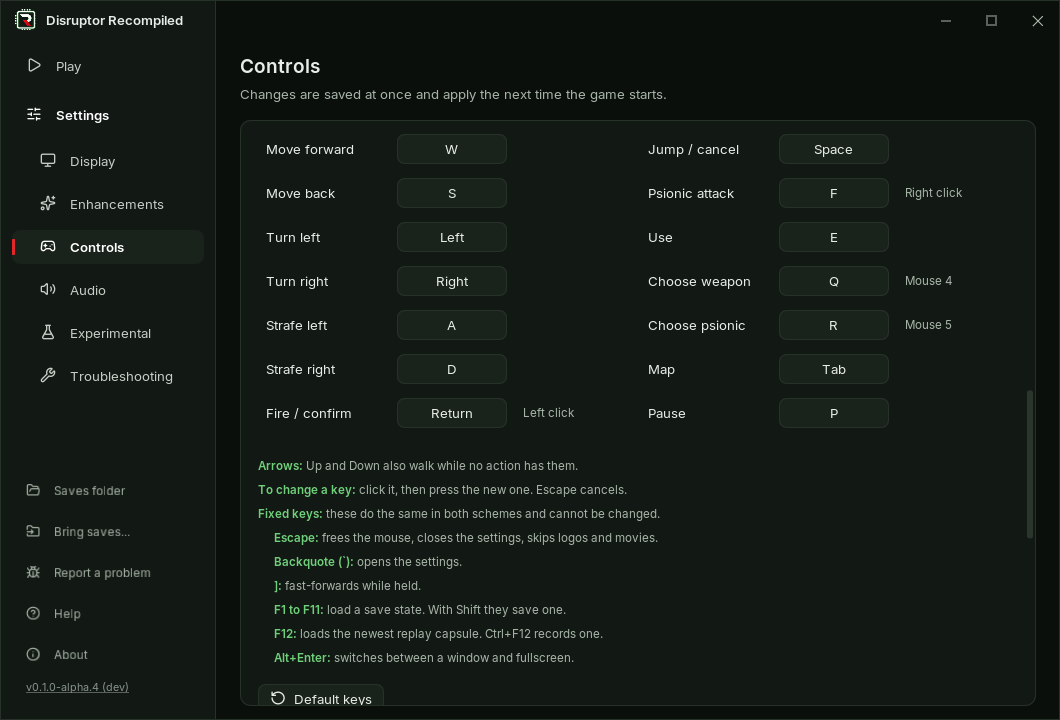
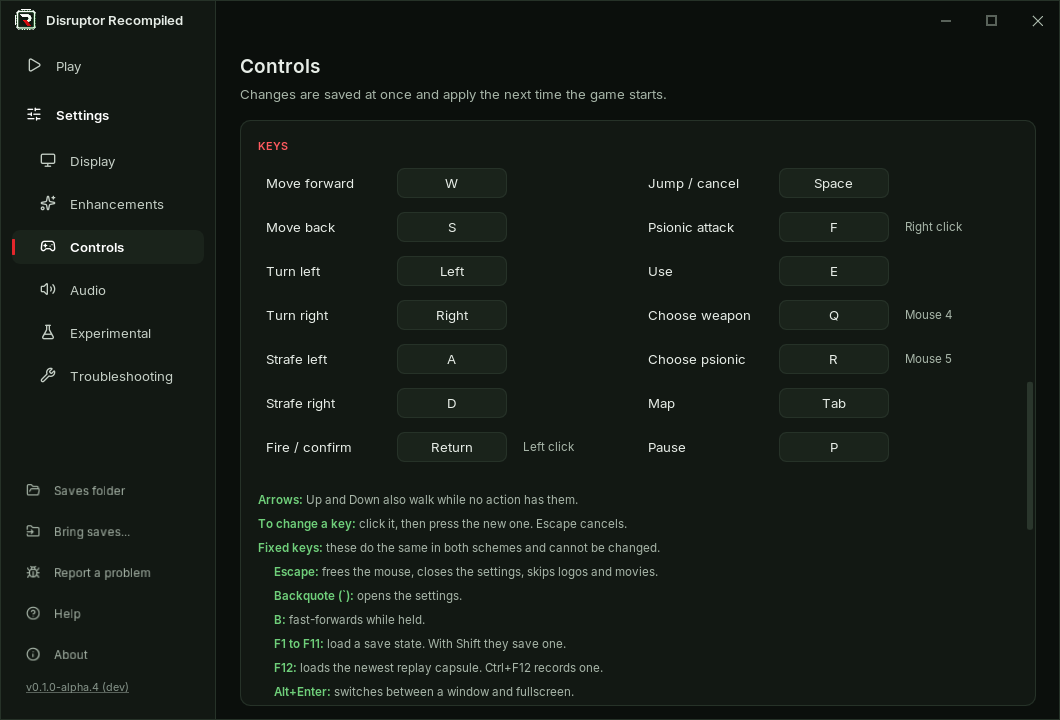
feat: fast-forward with B instead of ], except while the save-name rows take the key

diff --git a/tests/contracts/test_fast_forward_key_contract.py b/tests/contracts/test_fast_forward_key_contract.py
@@ -1,0 +1,94 @@
+#!/usr/bin/env python3
+"""Source contract for the fast-forward key: B, asked of the game by the framework, and never while the name takes it."""
+
+from pathlib import Path
+
+ROOT = Path(__file__).resolve().parents[2]
+
+
+def read(path: str) -> str:
+    return (ROOT / path).read_text(encoding="utf-8-sig").replace("\r\n", "\n")
+
+
+def faults(sources: dict[str, str]) -> list[str]:
+    """What is wrong with the sources, empty when the key works as the contract says."""
+    found = []
+    main, host, entry = sources["main"], sources["host"], sources["entry"]
+    if not (
+        "#ifdef PSX_HAS_GAME_HOST\n        const int turbo_key = psx_game_fast_forward_key();\n#else\n"
+        "        const int turbo_key = SDL_SCANCODE_RIGHTBRACKET;\n#endif\n"
+        in main
+        and "            turbo_key >= 0 && turbo_key < count && keys[turbo_key]) {" in main
+        and "const Uint8* keys = SDL_GetKeyboardState(&count);" in main
+    ):
+        found.append("the framework must ask the game for the key and check it against the keyboard's size")
+    if main.count("SDL_SCANCODE_RIGHTBRACKET") != 1:
+        found.append("] must stay only as the key of a build without a game host")
+    if "int psx_game_fast_forward_key(void);" not in sources["header"]:
+        found.append("the game host header must declare the question")
+    if (
+        "int psx_game_fast_forward_key(void) {\n"
+        "    if (disruptor_name_entry_taking_text() || disruptor_name_entry_withholds(SDL_SCANCODE_B)) return -1;\n"
+        "    return SDL_SCANCODE_B;\n}\n"
+    ) not in host:
+        found.append("Disruptor must answer B, and none while the name rows take letters or hold B")
+    if (
+        'extern "C" int disruptor_name_entry_taking_text(void) { return taking_text() ? 1 : 0; }' not in entry
+        or "    return scancode >= 0 && key < g_withheld.size() && g_withheld.test(key) ? 1 : 0;" not in entry
+        or "    g_withheld.set(static_cast<std::size_t>(scancode));  /* the rows may close before the pad is next read */"
+        not in entry
+        or "        g_held.reset(static_cast<std::size_t>(scancode));\n        g_withheld.reset(static_cast<std::size_t>(scancode));\n"
+        not in entry
+    ):
+        found.append("the name entry must say when it takes letters and which keys it still holds")
+    if not (
+        '{"B", "fast-forwards while held"},' in sources["keys"]
+        and 'folded == "b") return true;' in sources["keys"]
+        and '"]"' not in sources["keys"]
+    ):
+        found.append("the launcher must reserve B and list it, and leave ] to the player")
+    if "- **B** fast-forwards while held, except on the save-name screen." not in sources["guide"]:
+        found.append("the player's guide must name B")
+    return found
+
+
+sources = {
+    "main": read("psxrecomp/runtime/src/main.cpp"),
+    "header": read("psxrecomp/runtime/include/game_host.h"),
+    "host": read("src/game/host.cpp"),
+    "entry": read("src/game/input/name_entry.cpp"),
+    "keys": read("src/launcher/key_bindings.cpp"),
+    "guide": read("docs/PLAYING.md"),
+}
+said = faults(sources)
+if said:
+    raise AssertionError("; ".join(said))
+
+seeded = {
+    "a key the framework reads itself": ("main", "keys[turbo_key]) {", "keys[SDL_SCANCODE_B]) {"),
+    "no bound on the scancode": ("main", "turbo_key >= 0 && turbo_key < count && ", "turbo_key >= 0 && "),
+    "another key": ("host", "    return SDL_SCANCODE_B;\n", "    return SDL_SCANCODE_V;\n"),
+    "B while the rows take letters": ("host", "disruptor_name_entry_taking_text() || ", ""),
+    "B held over the rows' end": ("host", " || disruptor_name_entry_withholds(SDL_SCANCODE_B)", ""),
+    "a held key past the bitset": ("entry", "key < g_withheld.size() && ", ""),
+    "a typed key not held at once": (
+        "entry",
+        "    g_withheld.set(static_cast<std::size_t>(scancode));  /* the rows may close before the pad is next read */\n",
+        "",
+    ),
+    "a key let go still held": (
+        "entry",
+        "        g_withheld.reset(static_cast<std::size_t>(scancode));\n        return 0;\n",
+        "        return 0;\n",
+    ),
+    "B free to bind": ("keys", 'folded == "b") return true;', 'folded == "]") return true;'),
+    "the old key in the guide": ("guide", "- **B** fast-forwards", "- **]** fast-forwards"),
+}
+for name, (where, old, new) in seeded.items():
+    changed = dict(sources)
+    if changed[where].count(old) != 1:
+        raise AssertionError(f"the seed '{name}' no longer finds its text")
+    changed[where] = changed[where].replace(old, new)
+    if not faults(changed):
+        raise AssertionError(f"the contract must refuse {name}")
+print(f"Disruptor fast-forward key source contract: PASS ({len(seeded)} seeded changes refused)")

diff --git a/tests/unit/disruptor_name_entry_test.cpp b/tests/unit/disruptor_name_entry_test.cpp
@@ -400,6 +400,37 @@ void test_a_typing_key_stays_off_the_pad() {
     let_go();
 }
 
+void test_a_typed_key_stays_the_names() {
+    fresh(5, 0);
+    expect(disruptor_name_entry_taking_text() == 1, "the name rows take letters");
+    expect(disruptor_name_entry_key(5, 'b', 1, 1) == 1, "B is a letter there");
+    screen(0, 0);
+    expect(disruptor_name_entry_taking_text() == 0, "the rows close before the pad is read again");
+    expect(disruptor_name_entry_withholds(5) == 1, "B typed on the rows stays the name's while it is held, so it cannot fast-forward");
+    std::array<std::uint8_t, 512> keys{}, kept{};
+    keys[5] = 1;
+    disruptor_name_entry_keys_for_pad(keys.data(), kept.data(), 512);
+    expect(disruptor_name_entry_withholds(5) == 1 && kept[5] == 0, "the pad does not see it either");
+    keys[5] = 0;
+    disruptor_name_entry_keys_for_pad(keys.data(), kept.data(), 512);
+    disruptor_name_entry_key(5, 'b', 0, 1);
+    expect(disruptor_name_entry_withholds(5) == 0, "released, B is free again");
+    expect(disruptor_name_entry_withholds(-1) == 0 && disruptor_name_entry_withholds(512) == 0,
+           "a scancode outside the board is never withheld");
+
+    for (const int key : {5, 42, 76}) {
+        fresh(5, 0);
+        disruptor_name_entry_key(key, key == 5 ? 'b' : 0u, 1, 1);
+        screen(0, 0);
+        frame();
+        disruptor_name_entry_key(key, key == 5 ? 'b' : 0u, 0, 1);
+        expect(disruptor_name_entry_withholds(key) == 0, "a key let go after the rows close is free at once, before the pad is read");
+        disruptor_name_entry_key(key, key == 5 ? 'b' : 0u, 1, 1);
+        expect(disruptor_name_entry_withholds(key) == 0, "and pressed again it reaches the game, B, Backspace and Delete alike");
+        disruptor_name_entry_key(key, key == 5 ? 'b' : 0u, 0, 1);
+    }
+}
+
 }  // namespace
 
 int main() {
@@ -409,6 +440,7 @@ int main() {
     test_only_on_the_name_rows();
     test_a_letter_key_is_no_button_that_frame();
     test_a_typing_key_stays_off_the_pad();
+    test_a_typed_key_stays_the_names();
     expect(g_strays == 0, "nothing but the row, the cursor and the name's eight codes may be read or written");
     if (g_failures) return 1;
     std::cout << "Disruptor name entry tests passed\n";

diff --git a/src/game/input/name_entry.cpp b/src/game/input/name_entry.cpp
@@ -165,6 +165,15 @@ extern "C" void disruptor_name_entry_keys_for_pad(const uint8_t *keys, uint8_t *
     }
 }
 
+// Whether the name rows are up and take letters, so a letter key belongs to the name.
+extern "C" int disruptor_name_entry_taking_text(void) { return taking_text() ? 1 : 0; }
+
+// Whether a key went down on the name rows and is still held, so it stays the name's after the rows close.
+extern "C" int disruptor_name_entry_withholds(int scancode) {
+    const auto key = static_cast<std::size_t>(scancode);
+    return scancode >= 0 && key < g_withheld.size() && g_withheld.test(key) ? 1 : 0;
+}
+
 /* A save state was loaded: what was typed, and where the screen stood, belong to the time before it. The clock
  * cannot tell: a state's clock may lie anywhere beside the one it replaces. */
 extern "C" void disruptor_name_entry_state_loaded(void) {
@@ -187,12 +196,14 @@ extern "C" int disruptor_name_entry_key(int scancode, uint32_t keycode, int down
     g_keyed = psx_get_cycle_count();
     if (!down) {
         g_held.reset(static_cast<std::size_t>(scancode));
+        g_withheld.reset(static_cast<std::size_t>(scancode));
         return 0;
     }
     /* By the rows as the routine last found them, not as they are: the pad shows a key before its event comes, and a
      * key that confirmed the row before can have brought these rows up by now. */
     if (!g_on || !plain) return 0;
     g_held.set(static_cast<std::size_t>(scancode));
+    g_withheld.set(static_cast<std::size_t>(scancode));  /* the rows may close before the pad is next read */
     if (g_count < g_typed.size()) {
         g_typed[g_count++] = *typed;
         ++g_text;

diff --git a/src/game/host.cpp b/src/game/host.cpp
@@ -16,6 +16,8 @@
 #include <exception>
 
 extern "C" int disruptor_name_entry_key(int scancode, uint32_t keycode, int down, int plain);
+extern "C" int disruptor_name_entry_taking_text(void);
+extern "C" int disruptor_name_entry_withholds(int scancode);
 extern "C" void disruptor_name_entry_keys_for_pad(const uint8_t *keys, uint8_t *kept, int count);
 extern "C" void disruptor_name_entry_state_loaded(void);
 extern "C" void disruptor_mover_motion_state_loaded(void);
@@ -75,6 +77,11 @@ int psx_game_key(int scancode, uint32_t keycode, int down, int plain) {
 int psx_game_grown_quad_sources(uint32_t command_address, const uint32_t *packet, uint32_t source_address[4],
                                 uint32_t source_word[4]) {
     return disruptor_grown_quad_sources(command_address, packet, source_address, source_word);
+}
+
+int psx_game_fast_forward_key(void) {
+    if (disruptor_name_entry_taking_text() || disruptor_name_entry_withholds(SDL_SCANCODE_B)) return -1;
+    return SDL_SCANCODE_B;
 }
 
 void psx_game_keys_for_pad(const uint8_t *keys, uint8_t *kept, int count) {

diff --git a/tests/contracts/test_dev_menu_contract.py b/tests/contracts/test_dev_menu_contract.py
@@ -990,4 +990,13 @@ require("if (changed(\"controller.deadzone\")) psx_input_set_deadzone(pending.de
         and "psx_input_pad_name(0)" in menu,
         "the game's Controls tab names the pad it reads and moves the dead zone live, as the launcher saves it")
 
+require("    set_window_icon(window);\n" in function_body(menu, "on_runtime_ready")
+        and "SDL_LoadBMP_IO(SDL_IOFromConstMem(disruptor_window_icon_bmp, disruptor_window_icon_bmp_size), true)" in menu
+        and "    SDL_SetWindowIcon(window, icon);\n" in menu
+        and 'set(DISRUPTOR_WINDOW_ICON "${CMAKE_CURRENT_SOURCE_DIR}/src/launcher/assets/app-64.bmp")' in cmake
+        and 'list(APPEND DISRUPTOR_EXTRA_SOURCES "${CMAKE_CURRENT_BINARY_DIR}/window_icon.cpp")' in cmake
+        and 'target_sources(psx-runtime PRIVATE "${CMAKE_CURRENT_SOURCE_DIR}/src/game/icon.rc")' in cmake
+        and read("src/game/icon.rc") == '1 ICON "../launcher/assets/app.ico"\n',
+        "the game's window and executable carry the launcher's icon")
+
 print("developer menu contract: PASS")

diff --git a/src/launcher/key_bindings.cpp b/src/launcher/key_bindings.cpp
@@ -44,7 +44,7 @@ bool same_key(std::string_view one, std::string_view other) {
 constexpr FixedKey fixed[] = {
     {"Escape", "frees the mouse, closes the settings, skips logos and movies"},
     {"Backquote (`)", "opens the settings"},
-    {"]", "fast-forwards while held"},
+    {"B", "fast-forwards while held"},
     {"F1 to F11", "load a save state. With Shift they save one"},
     {"F12", "loads the newest replay capsule. Ctrl+F12 records one"},
     {"Alt+Enter", "switches between a window and fullscreen"},
@@ -56,7 +56,7 @@ std::span<const FixedKey> fixed_keys() { return fixed; }
 
 bool reserved_key(std::string_view name) {
     const std::string folded = settings::folded_key(name);
-    if (folded == "escape" || folded == "`" || folded == "]") return true;
+    if (folded == "escape" || folded == "`" || folded == "b") return true;
     for (int number = 1; number <= 12; ++number)
         if (folded == "f" + std::to_string(number)) return true;
     return false;

diff --git a/tests/contracts/test_name_entry_contract.py b/tests/contracts/test_name_entry_contract.py
@@ -224,7 +224,9 @@ require(
     and "        if (keys[scancode] == 0) g_withheld.reset(key);\n"
     "        else if (taking && in_typing_block(scancode)) g_withheld.set(key);\n"
     "        kept[scancode] = g_withheld.test(key) ? uint8_t{0} : keys[scancode];\n" in module
-    and module.count("g_withheld.reset(") == 2
+    and module.count("g_withheld.reset(") == 3
+    and "    g_held.set(static_cast<std::size_t>(scancode));\n    g_withheld.set(static_cast<std::size_t>(scancode));" in module
+    and "        g_held.reset(static_cast<std::size_t>(scancode));\n        g_withheld.reset(static_cast<std::size_t>(scancode));\n        return 0;" in module
     and "    return (scancode >= kKeyA && scancode <= kKey0) || (scancode >= kSpace && scancode <= kSlash) || "
     "scancode == kSecondBackslash ||\n"
     "           (scancode >= kPad1 && scancode <= kPad0) || scancode == kBackspace || scancode == kDelete;\n" in module

diff --git a/framework/files/runtime/include/game_host.h b/framework/files/runtime/include/game_host.h
@@ -33,6 +33,8 @@ void psx_game_state_loaded(void);
 void psx_game_state_saving(void);
 /* A key went down or up. `plain` is set for a press without Ctrl, Alt or the system key and for every release. Nonzero when the game took a press. */
 int psx_game_key(int scancode, uint32_t keycode, int down, int plain);
+/* The scancode of the key that fast-forwards while held, or -1 while it must not, as when the game types with it. */
+int psx_game_fast_forward_key(void);
 /* The keyboard's state as a pad may read it: `count` keys, nonzero for down, copied from `keys` to `kept` with the keys
  * the game is typing with shown as up. Called at every reading, which can be several a frame. */
 void psx_game_keys_for_pad(const uint8_t *keys, uint8_t *kept, int count);

diff --git a/tests/unit/launcher_key_bindings_test.cpp b/tests/unit/launcher_key_bindings_test.cpp
@@ -59,9 +59,9 @@ void schemes() {
 }
 
 void reserved() {
-    for (const char* name : {"Escape", "esc", "`", "]", "F1", "f12"})
+    for (const char* name : {"Escape", "esc", "`", "B", "b", "F1", "f12"})
         require(reserved_key(name), "the game's own keys cannot be bound");
-    for (const char* name : {"W", "F", "F13", "Return", "Space", "Right Shift"})
+    for (const char* name : {"W", "F", "]", "F13", "Return", "Space", "Right Shift"})
         require(!reserved_key(name), "other keys can");
 }
 

diff --git a/docs/PLAYING.md b/docs/PLAYING.md
@@ -120,7 +120,7 @@ These keys do the same in both schemes and cannot be changed:
 
 - **Escape** frees the mouse, closes the settings, skips logos and movies.
 - **Backquote** (`` ` ``) opens the settings.
-- **]** fast-forwards while held.
+- **B** fast-forwards while held, except on the save-name screen.
 - **F1 to F11** load a save state. With Shift they save one.
 - **F12** loads the newest replay capsule. Ctrl+F12 records one.
 - **Alt+Enter** switches between a window and fullscreen.
